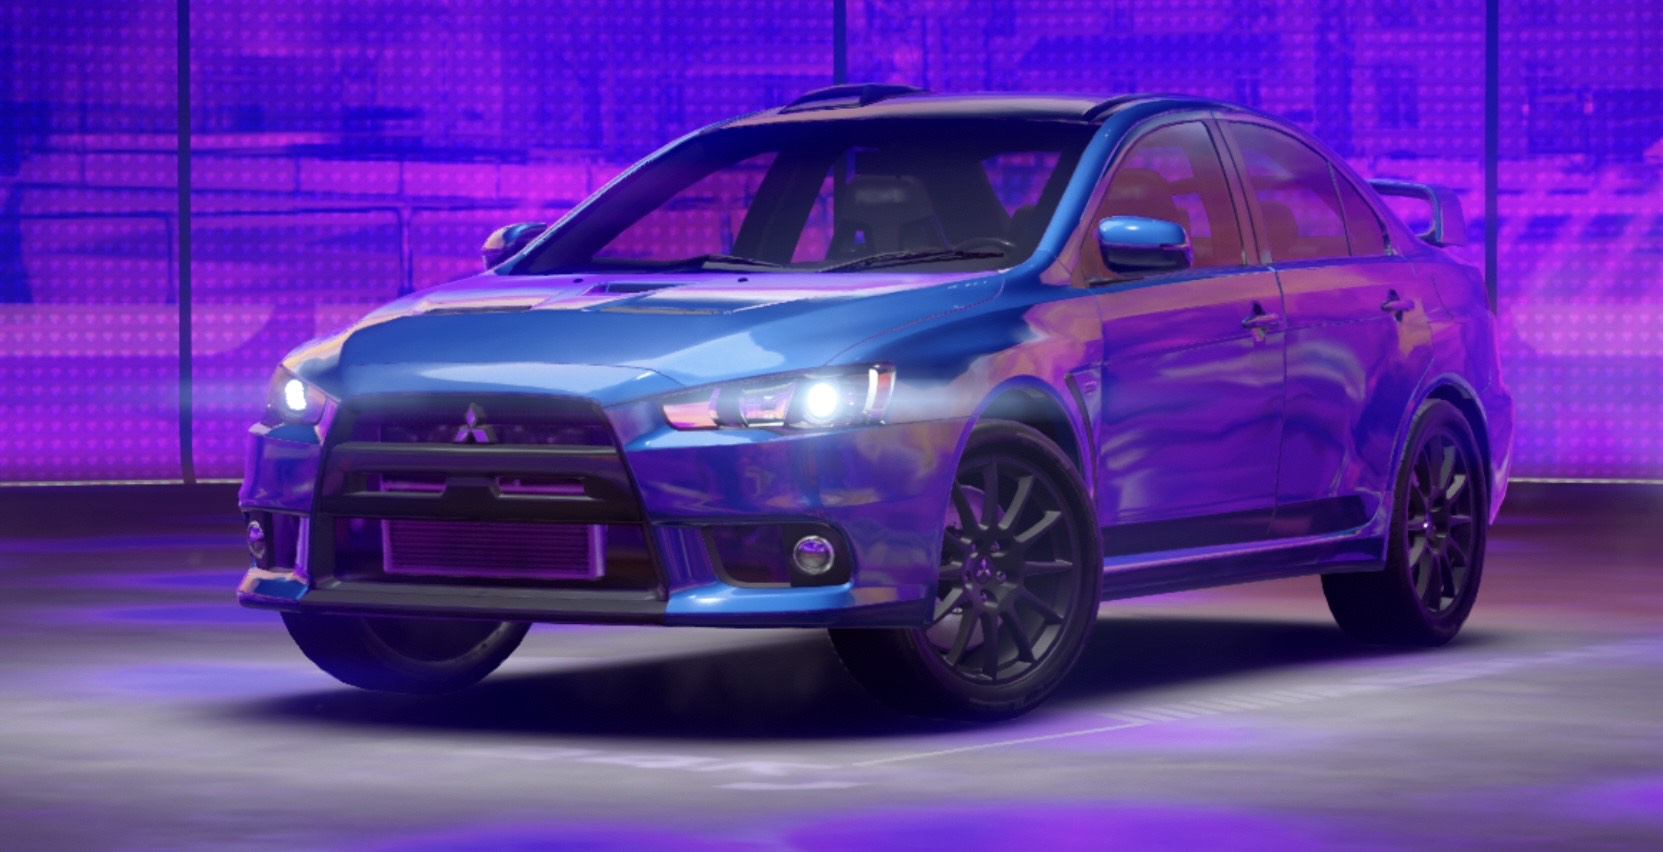
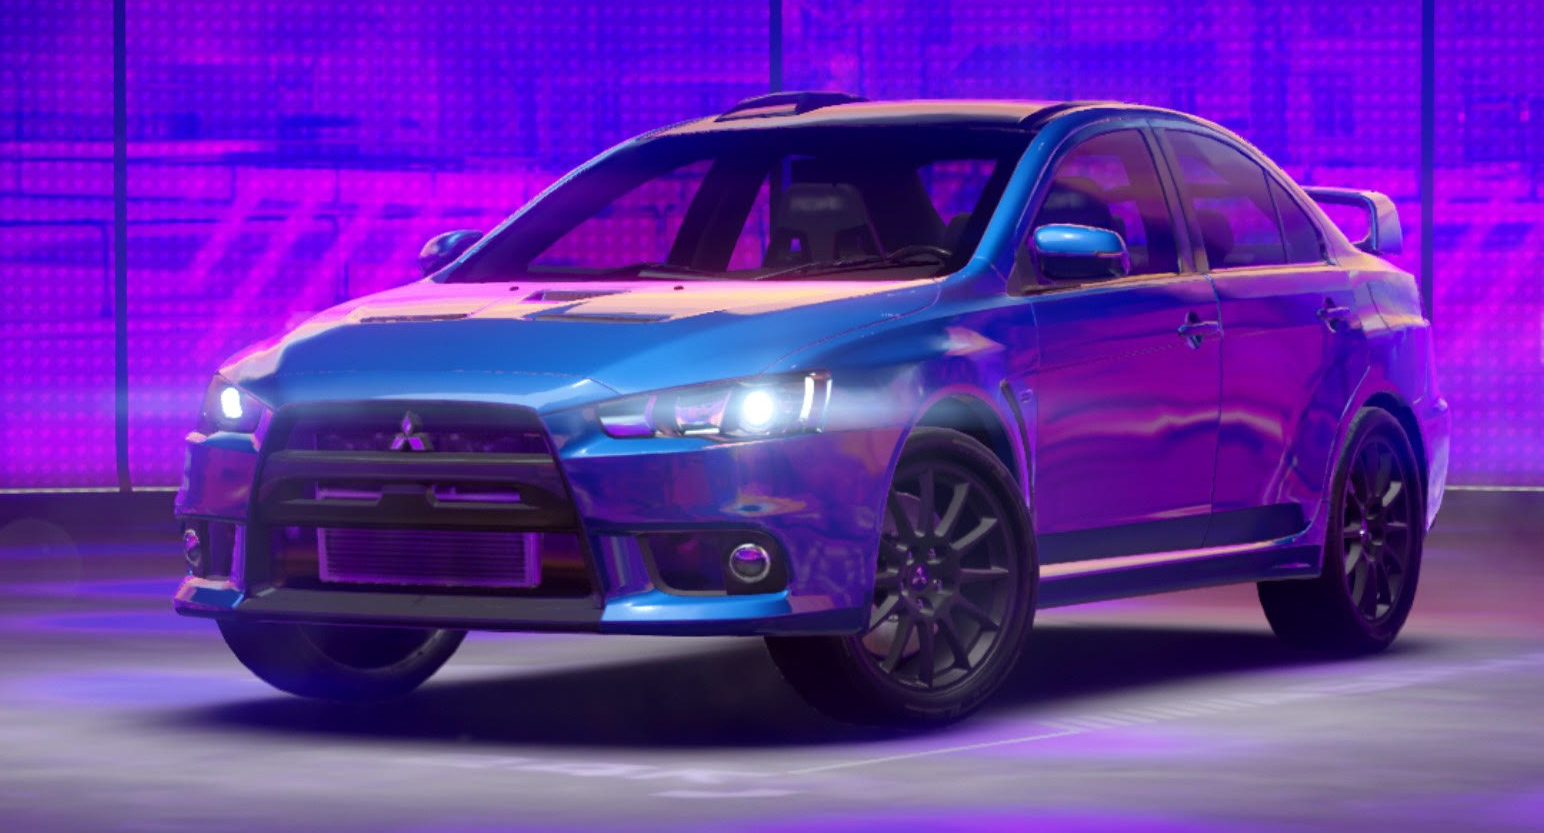
added images and code to garage levels tab

diff --git a/HTML/garage-levels.html b/HTML/garage-levels.html
@@ -4,9 +4,9 @@
 
 <head>
 
-    <meta charset="utf-8"/>
+    <meta charset="utf-8" />
     <meta http-equiv="X-UA-Compatible" content="IE-edge" />
-    <meta name="viewport" content="width=device-width, initial-scale=1.0"/>
+    <meta name="viewport" content="width=device-width, initial-scale=1.0" />
 
     <link rel="stylesheet" href="/assets/css/reset.css" />
     <link rel="stylesheet" href="/assets/css/index.css" />
@@ -25,19 +25,224 @@
     <header>
 
         <h1>Garage Levels</h1>
-        
+
         <nav id="main-nav">
-    
+
             <a href="index.html">Home</a>
             <a href="car-brands.html">Manufacturers</a>
             <a href="car-list.html">Models</a>
             <a href="legend-store.html">Legend Store</a>
             <a href="career.html">Career</a>
             <a href="garage-levels.html">Garage Levels</a>
-           
+
         </nav>
-    
+
     </header>
+
+    <main>
+
+        <section class="garage-levels">
+
+            <div>
+
+                <h2 class="main-heading">Garage Level 1</h2>
+
+                <h3 class="sub-heading">Cars Available</h3>
+
+            </div>
+
+            <div class="car-images-container">
+
+                <img src="/assets/images/bmw-z4.jpg" alt="garage level 1 cars" class="car-images">
+
+                <img src="/assets/images/camaro-lt.jpg" alt="garage level 1 cars" class="car-images">
+
+                <img src="/assets/images/mitsubishi-lancer.jpg" alt="garage level 1 cars" class="car-images">
+
+                <img src="/assets/images/dodge-challenger-srt8.jpg" alt="garage level 1 cars" class="car-images">
+
+            </div>
+
+            <div>
+
+                <ul>
+
+                    <li class="cars">BMW Z4 LCI E89</li>
+
+                    <li class="cars">Chevrolet Camaro LT</li>
+
+                    <li class="cars">Mitsubishi Lancer Evolution</li>
+
+                    <li class="cars">Dodge Challenger SRT8</li>
+
+                </ul>
+
+            </div>
+
+            <div>
+
+                <h2 class="main-heading">Garage Level 2</h2>
+
+                <h3 class="sub-heading">Cars Available</h3>
+
+            </div>
+
+            <div>
+
+                <img src="" alt="garage level 2 cars">
+
+            </div>
+
+            <div>
+
+                <ul>
+
+                    <li class="cars">BMW 3.0 CSL Hommage</li>
+
+                    <li class="cars">Chevrolet Camaro ZL1 50th Edition</li>
+
+                    <li class="cars">Nissan 370Z Nismo</li>
+
+                    <li class="cars">DS Automobiles E-Tense</li>
+
+                </ul>
+
+
+            </div>
+
+            <div>
+
+                <h2 class="main-heading">Garage Level 3</h2>
+
+                <h3 class="sub-heading">Cars Available</h3>
+
+            </div>
+
+            <div>
+
+                <img src="" alt="garage level 3 cars">
+
+            </div>
+
+            <div>
+
+                <ul>
+
+                    <li class="cars">Dodge Challenger 392 Hemi Scat Pack</li>
+    
+                    <li class="cars">Volkswagen XL Sport Concept</li>
+               
+                    <li class="cars">Lotus Evora Sport 410</li>
+              
+                    <li class="cars">Porsche 911 Targa 45</li>
+    
+                </ul>
+
+            </div>
+
+            
+
+            <h2 class="main-heading">Garage Level 4</h2>
+
+            <h3 class="sub-heading">Cars Available</h3>
+
+            <img src="" alt="garage level 4 cars">
+
+
+            <h2 class="main-heading">Garage Level 5</h2>
+
+            <h3 class="sub-heading">Cars Available</h3>
+
+            <img src="" alt="garage level 5 cars">
+
+
+            <h2 class="main-heading">Garage Level 6</h2>
+
+            <h3 class="sub-heading">Cars Available</h3>
+
+            <img src="" alt="garage level 6 cars">
+
+
+            <h2 class="main-heading">Garage Level 7</h2>
+
+            <h3>Cars Available</h3>
+
+            <img src="" alt="garage level 7 cars">
+
+            <h2 class="main-heading">Garage Level 8</h2>
+
+            <h3>Cars Available</h3>
+
+            <img src="" alt="garage level 8 cars">
+
+
+            <h2 class="main-heading">Garage Level 9</h2>
+
+            <h3>Cars Available</h3>
+
+            <img src="" alt="garage level 9 cars">
+
+            <h2 class="main-heading">Garage Level 10</h2>
+
+            <h3>Cars Available</h3>
+
+            <img src="" alt="garage level 10 cars">
+
+            <h2 class="main-heading">Garage Level 11</h2>
+
+            <h3>Cars Available</h3>
+
+            <img src="" alt="garage level 11 cars">
+
+            <h2 class="main-heading">Garage Level 12</h2>
+
+            <h3>Cars Available</h3>
+
+            <img src="" alt="garage level 12 cars">
+
+            <h2 class="main-heading">Garage Level 13</h2>
+
+            <h3>Cars Available</h3>
+
+            <img src="" alt="garage level 13 cars">
+
+            <h2 class="main-heading">Garage Level 14</h2>
+
+            <h3>Cars Available</h3>
+
+            <img src="" alt="garage level 14 cars">
+
+            <h2 class="main-heading">Garage Level 15</h2>
+
+            <h3>Cars Available</h3>
+
+            <img src="" alt="garage level 15 cars">
+
+            <h2 class="main-heading">Garage Level 16</h2>
+
+            <h3>Cars Available</h3>
+
+            <img src="" alt="garage level 1 cars">
+
+            <h2 class="main-heading">Garage Level 17</h2>
+
+            <h3>Cars Available</h3>
+
+            <img src="" alt="garage level 17 cars">
+
+            <h2 class="main-heading">Garage Level 18</h2>
+
+            <h3>Cars Available</h3>
+
+            <img src="" alt="garage level 18 cars">
+
+
+        </section>
+
+    </main>
+
+
+
 
 </body>
 

diff --git a/assets/css/garage-levels.css b/assets/css/garage-levels.css
@@ -1,0 +1,46 @@
+.garage-levels {
+    display: flex;
+    flex-direction: column;
+}
+
+.main-heading {
+    color:  rgb(21, 201, 232);
+    font-size: 40px;
+    margin: 15px 40px;
+}
+
+.sub-heading {
+    justify-content: left;
+    margin: 10px 80px;
+    color: rgb(223, 190, 7)
+}
+
+.car-images-container {
+    display: flex;
+    align-items: center;
+    margin: 10px auto;
+    max-width: 100%;
+}
+
+.car-images {
+    display: flex;
+    justify-content: space-evenly;
+    max-width: 100%;
+    width: 15%;
+    margin: 6px 9px;
+}
+
+ul {
+    text-align: center;
+}
+
+
+.cars {
+    display: inline;
+    color: white;
+    margin: 10px 40px;
+}
+
+
+
+
